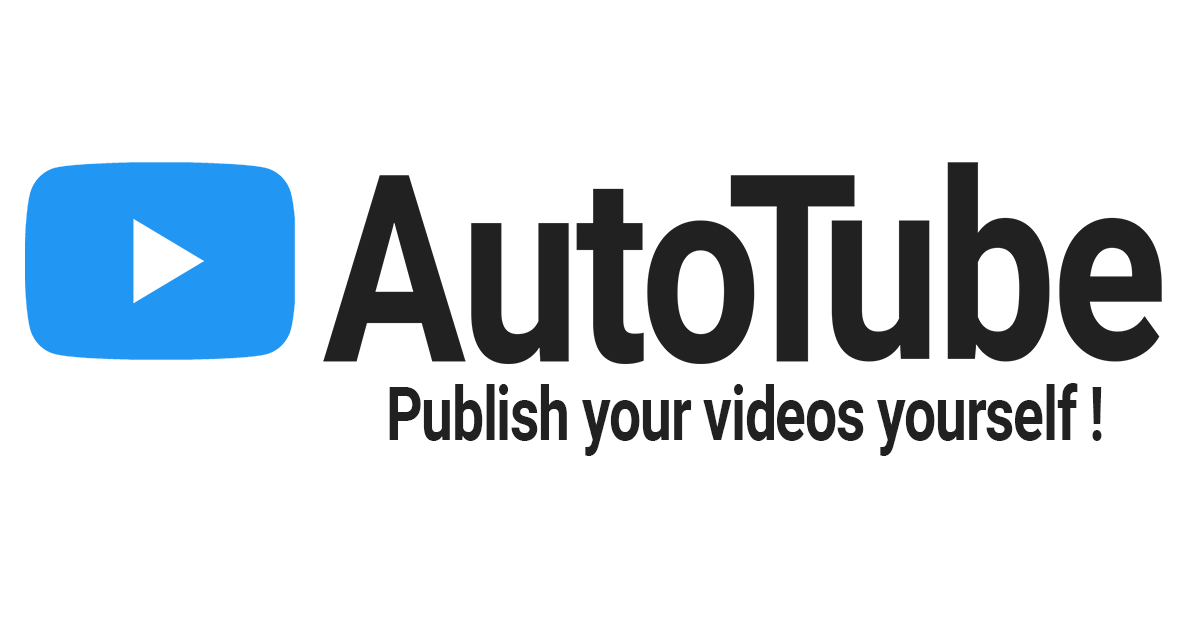
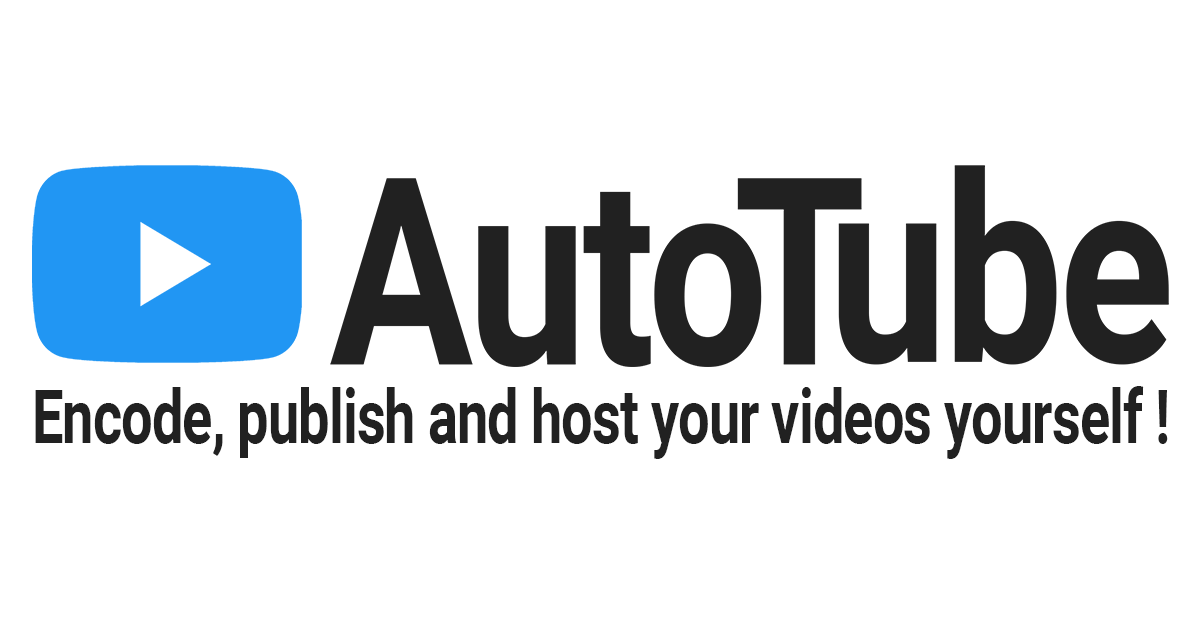
new title

diff --git a/pages/index.vue b/pages/index.vue
@@ -1,10 +1,10 @@
 <template>
-  <div>
+  <v-container>
     <SocialHead :title="title" :description="description" />
     <v-row justify="center" align="center" class="mt-2">
       <v-col cols="12">
         <div class="text-center">
-          <h1>Your videos, your choices !</h1>
+          <h1>Encode, publish and host your videos yourself</h1>
         </div>
       </v-col>
     </v-row>
@@ -12,19 +12,25 @@
       <Download />
     </v-row>
     <v-row justify="center" class="mt-5 d-flex">
-      <v-alert
-        class="mt-10 pt-6"
-        border="top"
-        colored-border
-        type="warning"
-        elevation="8"
-      >
-        <span>🚧 🚧 Work in progress: this site is currently under construction use, it at your own risk! 🚧 🚧</span>
-      </v-alert>
-    </v-row>
-    <v-row v-resize="onResize" justify="center" class="mt-11 d-flex">
       <v-col
         cols="12"
+        md="8"
+      >
+        <v-alert
+          class="mt-10 pt-6"
+          border="top"
+          colored-border
+          type="warning"
+          elevation="8"
+        >
+          <span>🚧 🚧 The application and the site are currently under development. You can test the app but keep in mind that this is not a final version and there might be some bugs. 🚧 🚧</span>
+        </v-alert>
+      </v-col>
+    </v-row>
+    <v-row v-resize="onResize" justify="center" class="mt-11 d-flex text-center">
+      <v-col
+        cols="12"
+        md="12"
         class="text-center"
       >
         <iframe
@@ -36,10 +42,10 @@
           allow="accelerometer; autoplay; clipboard-write; encrypted-media; gyroscope; picture-in-picture"
           allowfullscreen
         />
-        <p>AutoTube demo  </p>
+        <p>AutoTube demo </p>
       </v-col>
     </v-row>
-  </div>
+  </v-container>
 </template>
 
 <script>
@@ -51,8 +57,8 @@ export default {
   },
   data () {
     return {
-      title: 'AutoTube - Publish your videos yourself.',
-      description: 'AutoTube allows you to simply encode and publish your videos on the web.',
+      title: 'AutoTube - Encode, publish and host your videos yourself.',
+      description: 'AutoTube allows you to simply encode, publish and host your videos on the web.',
       iframeWidth: 800
     }
   },
@@ -74,7 +80,9 @@ export default {
   methods: {
     onResize () {
       this.iframeWidth = 0.6 * window.innerWidth
-      if (this.iframeWidth > 1200) { this.iframeWidth = 1200 }
+      if (this.iframeWidth > 1200) {
+        this.iframeWidth = 1200
+      }
     }
   }
 }

diff --git a/nuxt.config.js b/nuxt.config.js
@@ -11,7 +11,7 @@ export default {
     meta: [
       { charset: 'utf-8' },
       { name: 'viewport', content: 'width=device-width, initial-scale=1' },
-      { hid: 'description', name: 'description', content: 'Encode and publish videos yourself - Autotube' }
+      { hid: 'description', name: 'description', content: 'Encode, publish and host videos yourself - Autotube' }
     ],
     link: [
       { rel: 'icon', type: 'image/x-icon', href: '/favicon.ico' }

diff --git a/pages/docs/_slug.vue b/pages/docs/_slug.vue
@@ -98,7 +98,7 @@ export default {
 
 <style>
 h1 {
-  color: #1976D2;
+  color: #1E88E5;
 }
 #toc {
   border-right-style: solid;
@@ -111,7 +111,7 @@ h1 {
 }
 
 .nuxt-content h2 {
-  color: #1976D2;
+  color: #1E88E5;
   padding-bottom: .5rem;
   margin-bottom: 1rem;
   margin-top: 1.5rem;

diff --git a/layouts/default.vue b/layouts/default.vue
@@ -7,7 +7,7 @@
         <v-icon
           class="mr-2"
           large
-          color="primary"
+          color="#1E88E5"
         >
           mdi-youtube
         </v-icon>
